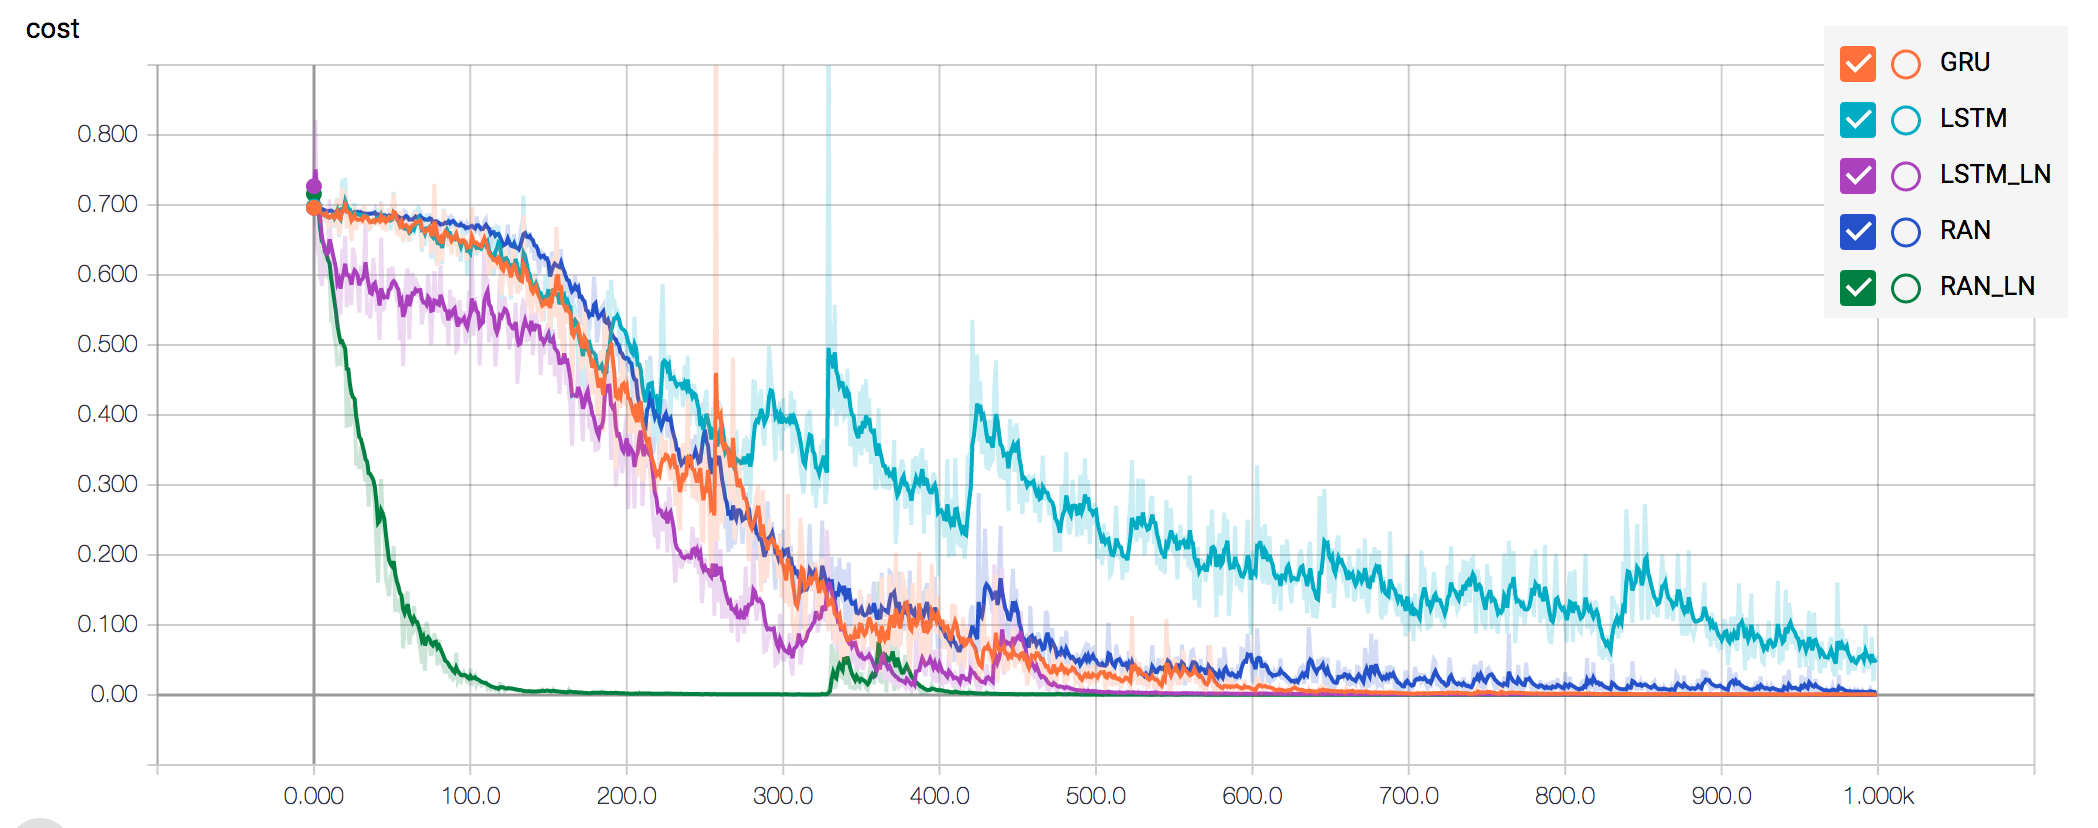
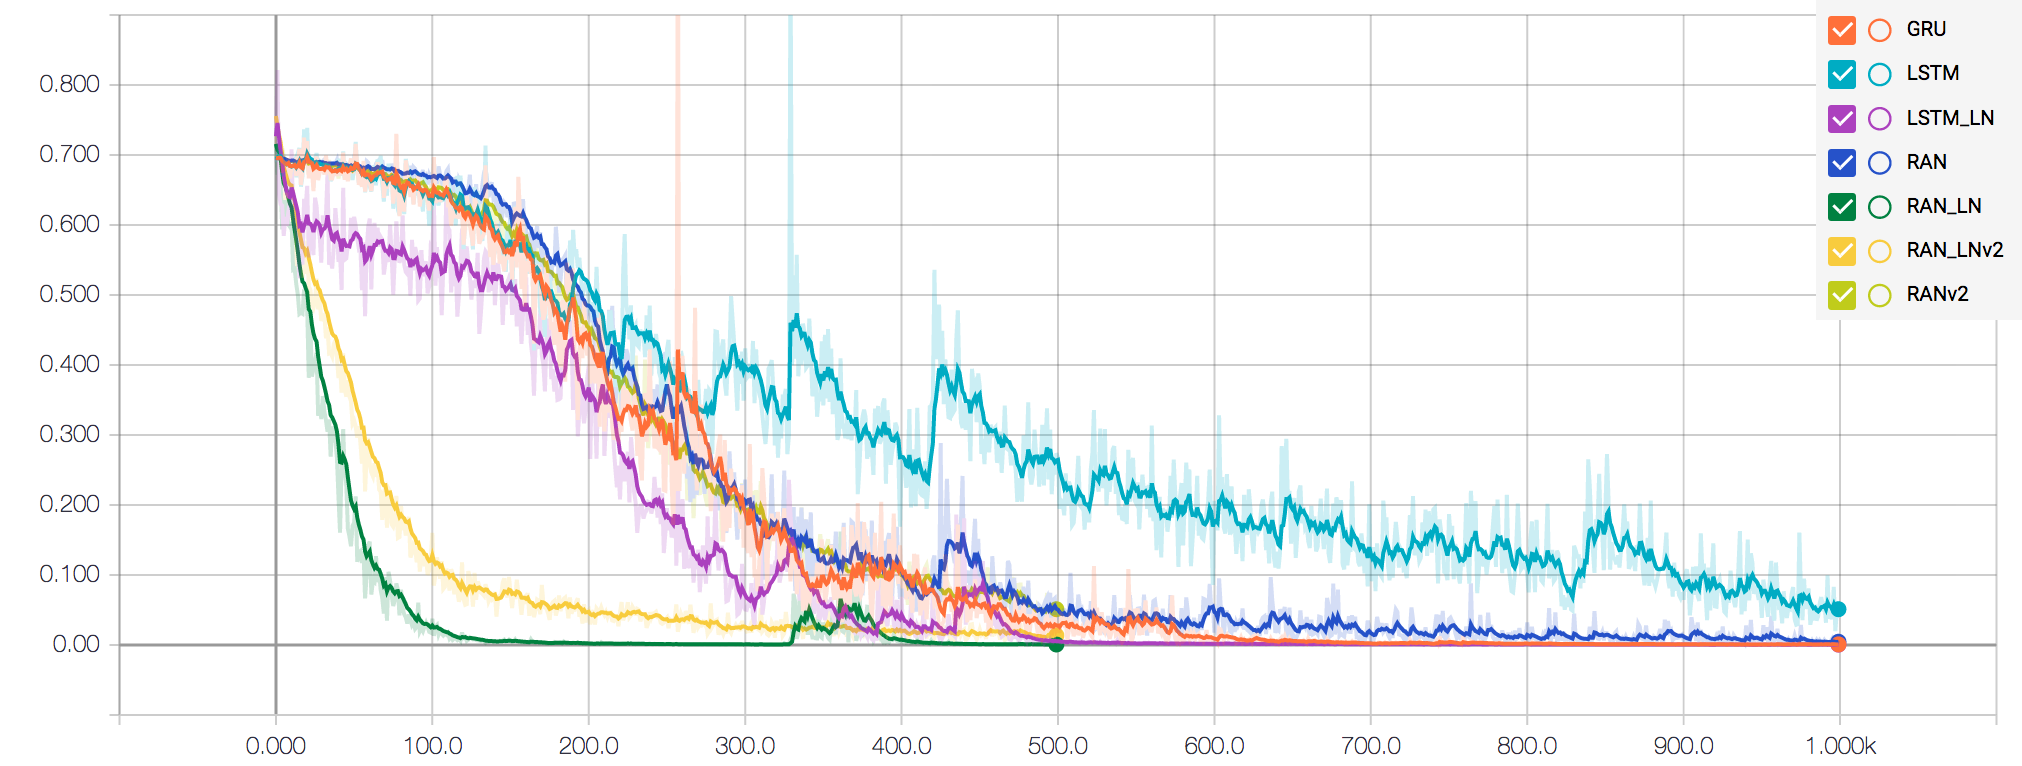
Add RANv2

diff --git a/train.py b/train.py
@@ -7,9 +7,10 @@ from tensorflow.contrib.rnn import GRUCell, BasicLSTMCell, LayerNormBasicLSTMCel
 from tensorflow.contrib.rnn.python.ops import core_rnn
 from tensorflow.contrib.layers import xavier_initializer as glorot
 from ran_cell import RANCell
+from ran_cell_v2 import RANCellv2
 
 flags = tf.app.flags
-flags.DEFINE_string("rnn_type", "RAN", "rnn type [RAN, RAN_LN, LSTM, GRU]")
+flags.DEFINE_string("rnn_type", "RAN", "rnn type [RAN, RANv2, RAN_LNv2, RAN_LN, LSTM, GRU]")
 FLAGS = flags.FLAGS
 
 def main(_):
@@ -25,8 +26,8 @@ def main(_):
   learning_rate = 0.001
   current_step = 0
 
-  initializer = tf.random_uniform_initializer(minval = -np.sqrt(6.0 * 1.0 / (num_cells + num_classes)),
-                                              maxval = np.sqrt(6.0 * 1.0 / (num_cells + num_classes)))
+  initializer = tf.random_uniform_initializer(minval=-np.sqrt(6.0 * 1.0 / (num_cells + num_classes)),
+                                              maxval=np.sqrt(6.0 * 1.0 / (num_cells + num_classes)))
 
   with tf.variable_scope("train", initializer=initializer):
     s = tf.Variable(tf.random_normal([num_cells], stddev=np.sqrt(initialization_factor))) # Determines initial state
@@ -37,6 +38,8 @@ def main(_):
 
     if FLAGS.rnn_type == "RAN":
       cell = RANCell(num_cells)
+    elif FLAGS.rnn_type == "RANv2":
+      cell = RANCellv2(num_cells)
     elif FLAGS.rnn_type == "LSTM":
       cell = BasicLSTMCell(num_cells)
     elif FLAGS.rnn_type == "LSTM_LN":
@@ -45,6 +48,8 @@ def main(_):
       cell = GRUCell(num_cells)
     elif FLAGS.rnn_type == "RAN_LN":
       cell = RANCell(num_cells, normalize=True)
+    elif FLAGS.rnn_type == "RAN_LNv2":
+      cell = RANCellv2(num_cells, normalize=True)
 
     states = cell.zero_state(batch_size, tf.float32)
     outputs, states = tf.nn.dynamic_rnn(cell, x, l, states)
@@ -54,7 +59,8 @@ def main(_):
                                         maxval=np.sqrt(6.0*initialization_factor / (num_cells + num_classes))))
     b_o = tf.Variable(tf.zeros([num_classes]))
 
-    if FLAGS.rnn_type == "LSTM" or FLAGS.rnn_type == "LSTM_LN":
+    if FLAGS.rnn_type == "LSTM" or FLAGS.rnn_type == "LSTM_LN" \
+      or FLAGS.rnn_type == "RANv2"  or FLAGS.rnn_type == "RAN_LNv2":
       ly = tf.matmul(states.h, W_o) + b_o
     else:
       ly = tf.matmul(states, W_o) + b_o

diff --git a/ran_cell_v2.py b/ran_cell_v2.py
@@ -1,0 +1,45 @@
+import collections
+import tensorflow as tf
+from tensorflow.python.ops.rnn_cell_impl import _RNNCell as RNNCell
+from tensorflow.contrib.rnn.python.ops import core_rnn_cell_impl
+from tensorflow.python.ops import array_ops
+from tensorflow.python.ops.math_ops import tanh
+from tensorflow.python.ops import variable_scope as vs
+from utils import linear
+
+_checked_scope = core_rnn_cell_impl._checked_scope
+
+class RANCellv2(RNNCell):
+  """Recurrent Additive Networks (cf. https://arxiv.org/abs/1705.07393)."""
+
+  def __init__(self, num_units, input_size=None, activation=tanh, normalize=False, reuse=None):
+    if input_size is not None:
+      logging.warn("%s: The input_size parameter is deprecated.", self)
+    self._num_units = num_units
+    self._activation = activation
+    self._normalize = normalize
+    self._reuse = reuse
+
+  @property
+  def state_size(self):
+    return tf.contrib.rnn.LSTMStateTuple(self._num_units, self.output_size)
+
+  @property
+  def output_size(self):
+    return self._num_units
+
+  def __call__(self, inputs, state, scope=None):
+    with _checked_scope(self, scope or "ran_cell", reuse=self._reuse):
+      with vs.variable_scope("gates"):
+        c, h = state
+        gates = tf.nn.sigmoid(linear([inputs, h], 2 * self._num_units, True, normalize=self._normalize))
+        i, f = array_ops.split(value=gates, num_or_size_splits=2, axis=1)
+
+      with vs.variable_scope("candidate"):
+        content = linear([inputs], self._num_units, True, normalize=self._normalize)
+
+      new_c = i * content + f * c
+      new_h = self._activation(c)
+      new_state = tf.contrib.rnn.LSTMStateTuple(new_c, new_h)
+      output = new_h
+    return output, new_state
